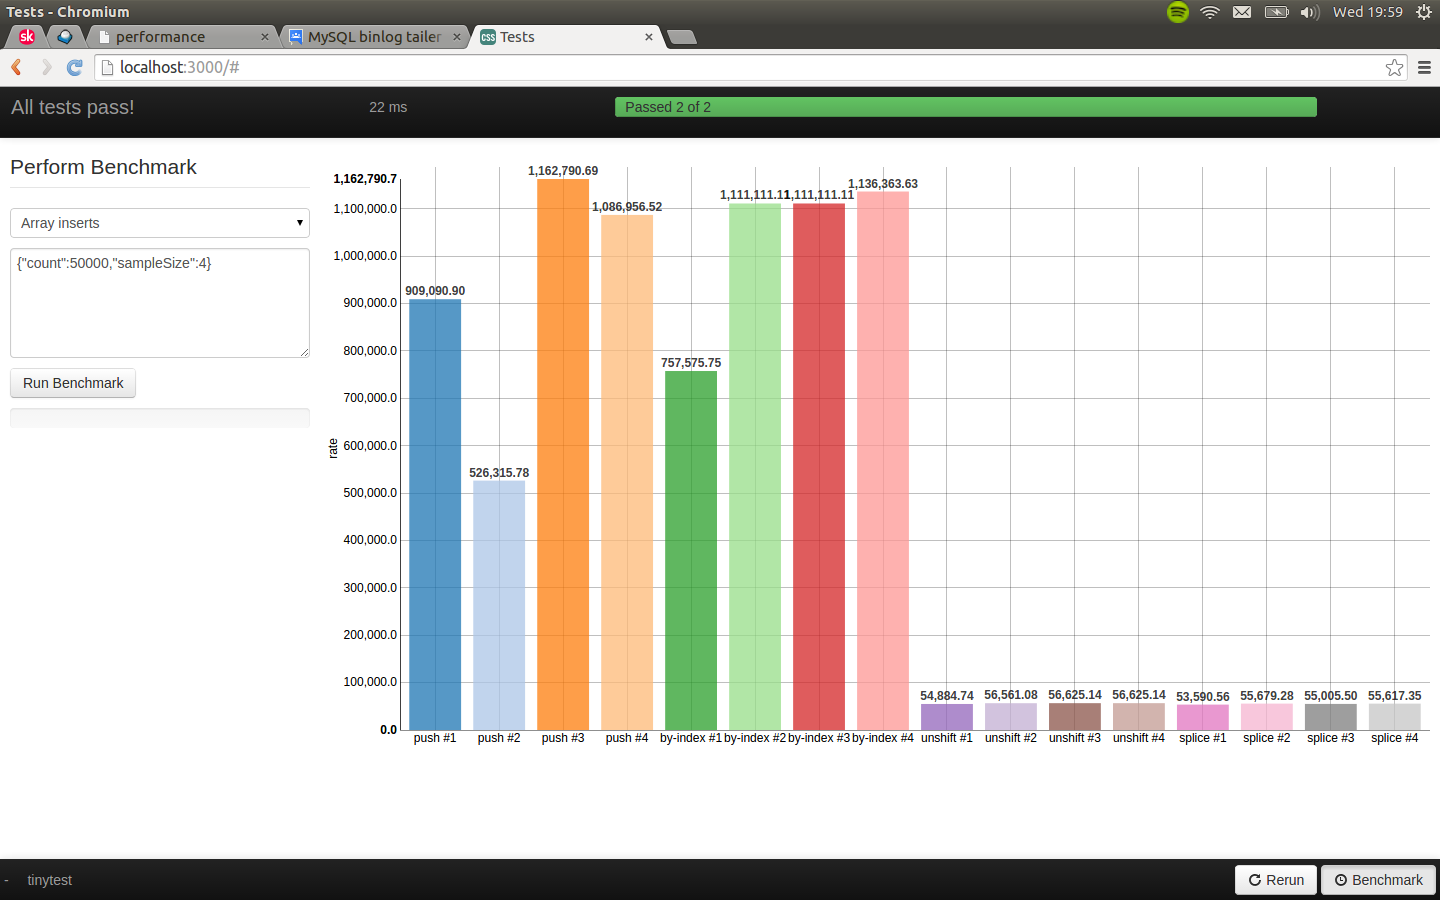
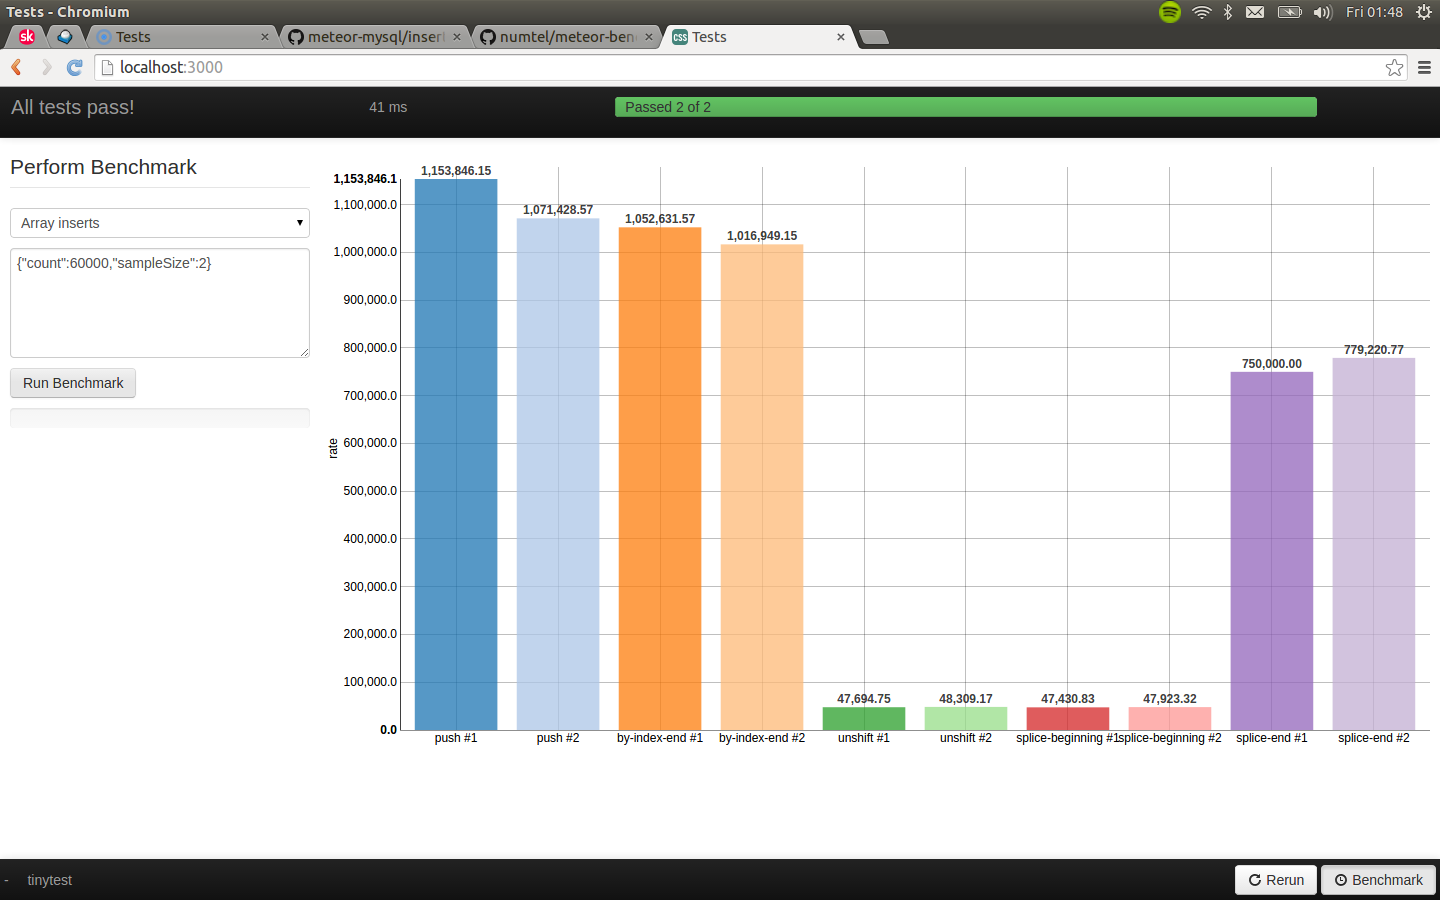
Updated sample benchmark to better show splice

diff --git a/test/arrayInserts.js b/test/arrayInserts.js
@@ -1,40 +1,30 @@
-var myArray = [];
+var myArr = [];
 
-var resetArray = function(options, done){
-  myArray.splice(0, myArray.length);
-  done();
-};
-
-var repeatRandomString = function(eachFun){
-  return function(options, done){
+var genCase = function(eachFun){
+  return {
+    run: function(options, done){
       for(var i = 0; i < options.count; i++){
         eachFun(String(Math.random() * 10000));
       }
       done();
-    };
+    },
+    reset: function(options, done){
+      myArr.splice(0, myArr.length);
+      done();
+    }
+  };
 };
 
 Benchmark.addCase({
   _label: 'Array inserts',
   _value: 'rate',
   _default: {
-    count: 50000,
-    sampleSize: 4
+    count: 60000,
+    sampleSize: 2
   },
-  'push': {
-    run: repeatRandomString(function(val){ myArray.push(val); }),
-    reset: resetArray
-  },
-  'by-index': {
-    run: repeatRandomString(function(val){ myArray[myArray.length] = val; }),
-    reset: resetArray
-  },
-  'unshift': {
-    run: repeatRandomString(function(val){ myArray.unshift(val); }),
-    reset: resetArray
-  },
-  'splice': {
-    run: repeatRandomString(function(val){ myArray.splice(0, 0, val); }),
-    reset: resetArray
-  }
+  'push': genCase(function(val){ myArr.push(val); }),
+  'by-index-end': genCase(function(val){ myArr[myArr.length] = val; }),
+  'unshift': genCase(function(val){ myArr.unshift(val); }),
+  'splice-beginning': genCase(function(val){ myArr.splice(0, 0, val); }),
+  'splice-end': genCase(function(val){ myArr.splice(myArr.length, 0, val); })
 });

diff --git a/README.md b/README.md
@@ -8,6 +8,8 @@ Click on the 'Benchmark' button added to the interface, or press `F2`, to toggle
 
 Select a test and specify options use JSON. Also, raw results are presented in the browser's Javascript console.
 
+* [View source for Array insert benchmark...](test/arrayInserts.js)
+
 ## Installation
 
 Add the following lines to `package.js`:
